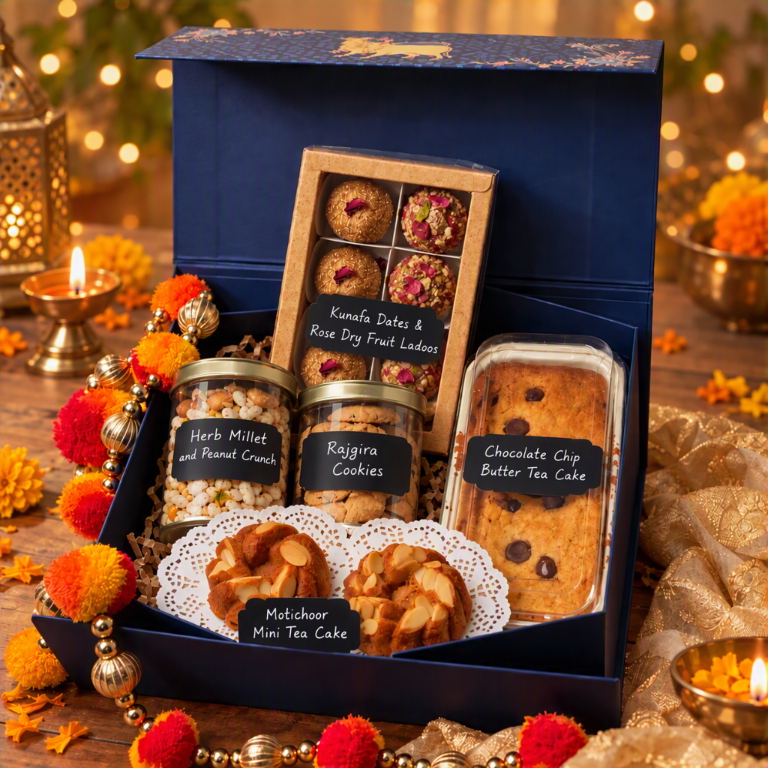
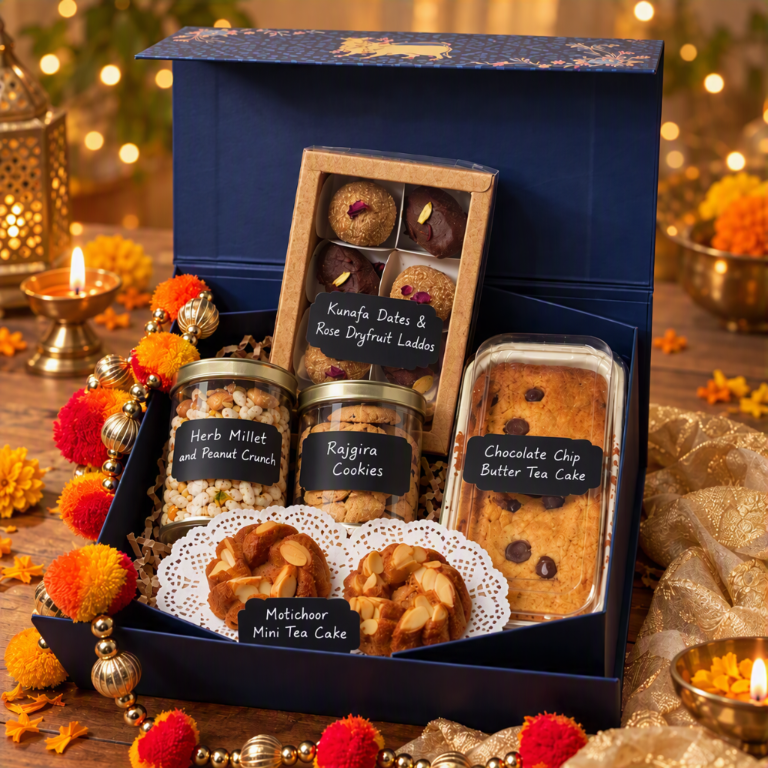
Update Diwali hamper inclusions and Utsav photograph

diff --git a/script.js b/script.js
@@ -65,10 +65,10 @@ const diwaliHampers = [
     enquiryName: "Diwali Parampara Signature Hamper",
     tagline: "Traditional Treats for Brighter Bonds",
     image: "assets/images/hampers/diwali-parampara.png",
-    imageAlt: "Diwali Parampara in a kraft gift box with fusion mithai, chocolate chip tea cake, cookie and crunch jars, and a small Diwali gift",
+    imageAlt: "Diwali Parampara in a kraft gift box with Chocolate Pista Barfi and Rose Dryfruit Ladoos, chocolate chip tea cake, cookie and crunch jars, and a small Diwali gift",
     inclusions: [
       "Chocolate Chip Butter Tea Cake",
-      "Fusion Mithai",
+      "Chocolate Pista Barfi & Rose Dryfruit Ladoos",
       "Rajgira Cookies",
       "Herb Millet & Peanut Crunch",
       "A small Diwali gift"
@@ -80,15 +80,14 @@ const diwaliHampers = [
     category: "Our Premium Hamper",
     enquiryName: "Diwali Utsav Premium Hamper",
     tagline: "Bigger Celebrations, Happier Together",
-    image: "assets/images/hampers/diwali-utsav.png",
-    imageAlt: "Diwali Utsav in a navy gift box with chocolate chip tea cake, cookie and crunch jars, festive sweets, and two Motichoor mini tea cakes",
+    image: "assets/images/hampers/diwali-utsav.png?v=20261029c",
+    imageAlt: "Diwali Utsav in a navy gift box with chocolate chip tea cake, cookie and crunch jars, Kunafa Dates and Rose Dryfruit Ladoos, and two Motichoor mini tea cakes",
     inclusions: [
       "Chocolate Chip Butter Tea Cake",
       "Herb Millet & Peanut Crunch",
       "Rajgira Cookies",
       "Kunafa Dates",
-      "Dry Fruit Laddus",
-      "Motichoor",
+      "Rose Dryfruit Ladoos",
       "Two Motichoor Mini Tea Cakes",
       "A special surprise Diwali gift"
     ]

diff --git a/index.html b/index.html
@@ -20,7 +20,7 @@
   <link rel="preload" href="assets/fonts/bodoni-moda-latin.woff2" as="font" type="font/woff2" crossorigin>
   <link rel="preload" href="assets/fonts/manrope-latin.woff2" as="font" type="font/woff2" crossorigin>
   <link rel="stylesheet" href="styles.css?v=20261029b">
-  <script src="script.js?v=20261029b" defer></script>
+  <script src="script.js?v=20261029c" defer></script>
 </head>
 <body>
   <!--
